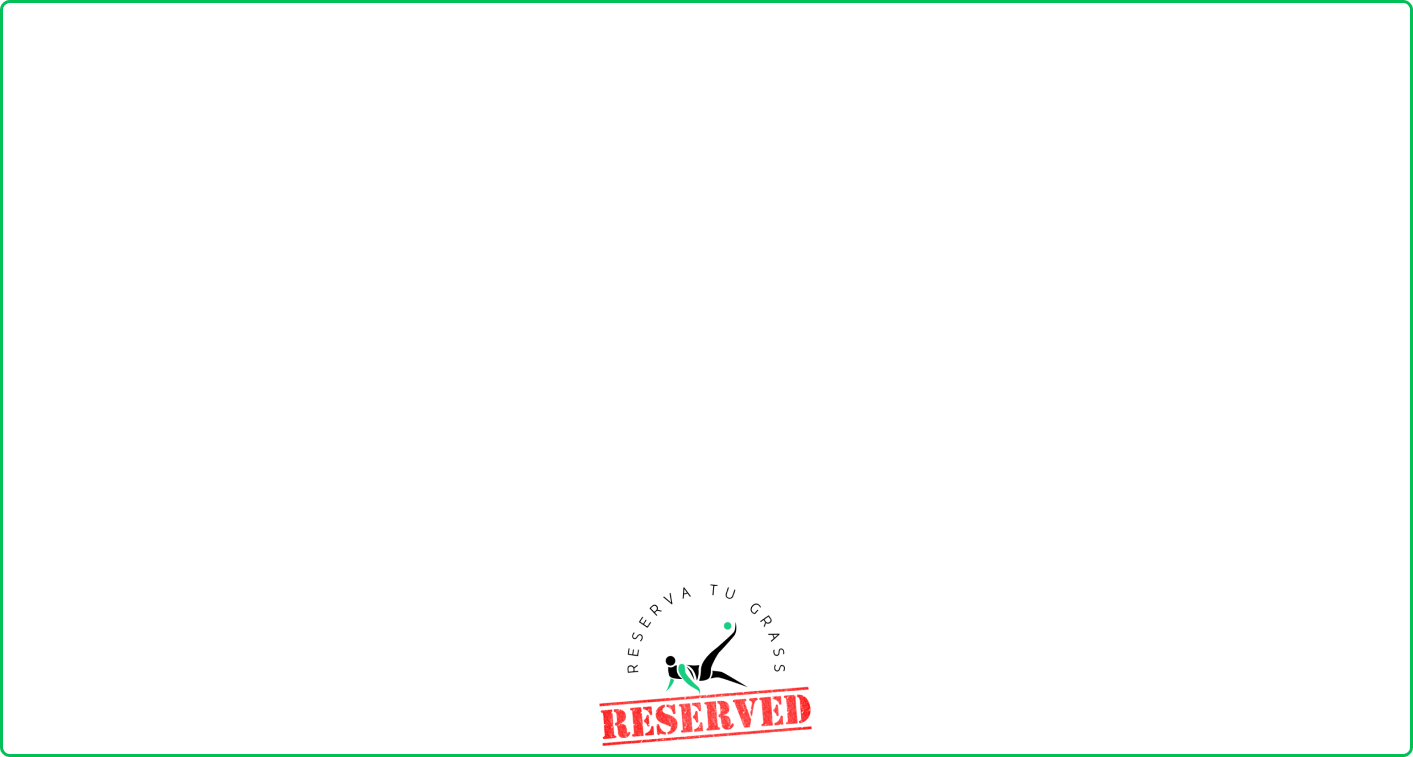
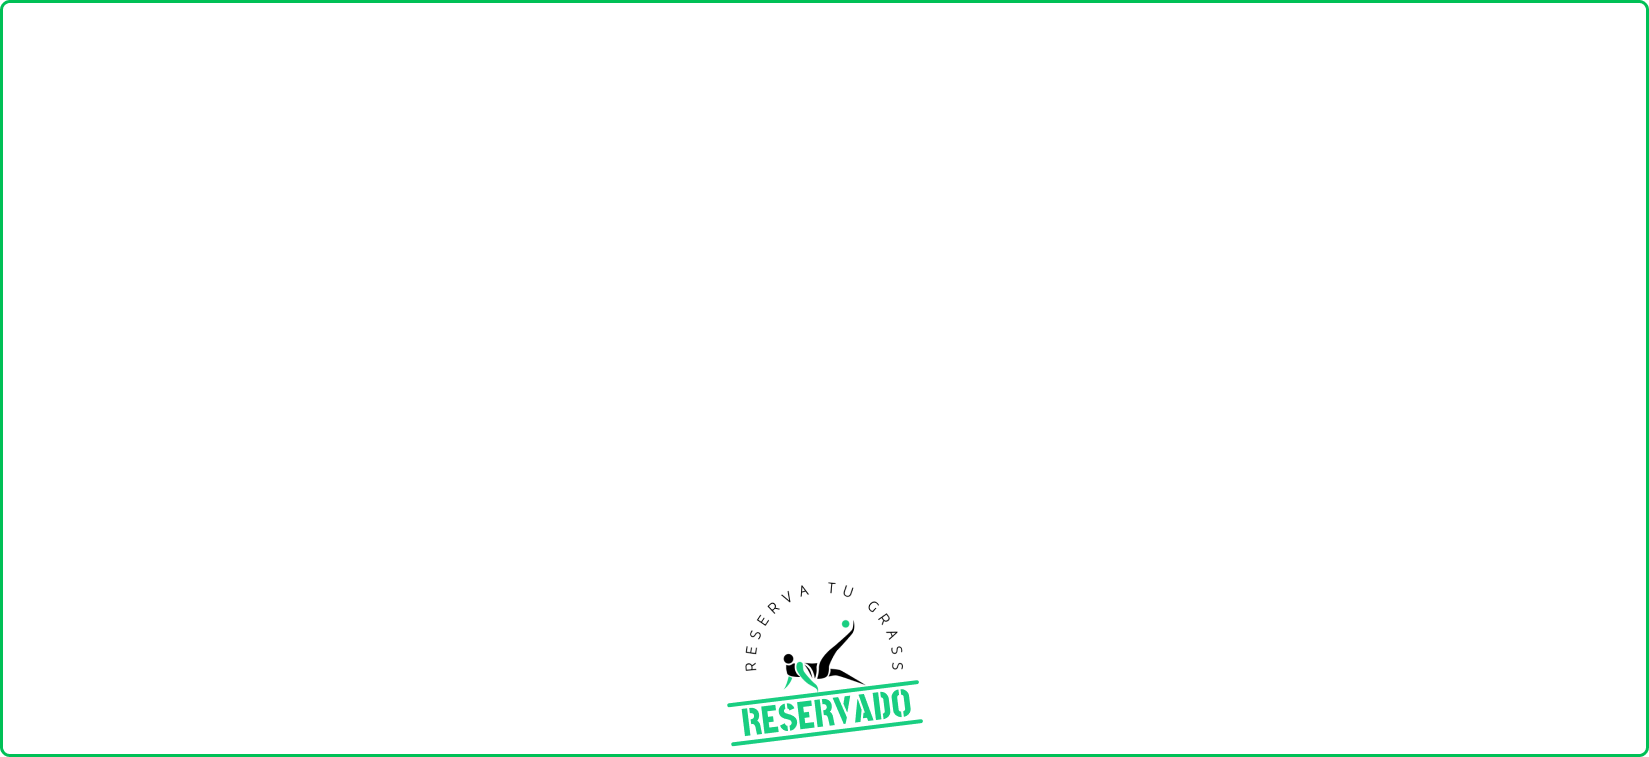
Genrar ticket modificado

Changed region(s): [[0.9965, 0.0, 1.0, 1.0], [0.4048, 0.79, 0.5916, 1.0], [0.4671, 0.7596, 0.5294, 0.79]]

diff --git a/Reserva-front/src/app/components/user/perfil/reservas/reservas.component.ts b/Reserva-front/src/app/components/user/perfil/reservas/reservas.component.ts
@@ -146,29 +146,19 @@ export class ReservasComponent implements OnInit {
     const container = document.getElementById(id);
   
     if (container) {
-      // Ruta a la imagen del marco en la carpeta assets
-      const marcoImagePath = '../../../../../assets/img/marco-ticket.png';
-  
-      // Cargar la imagen del marco
-      const marcoImg = new Image();
-      marcoImg.src = marcoImagePath;
-  
       // Capturar el contenido del contenedor
       html2canvas(container).then(contentCanvas => {
-        // Crear un nuevo canvas para combinar la imagen del marco y el contenido capturado
+        // Crear un nuevo canvas solo para el contenido capturado
         const combinedCanvas = document.createElement('canvas');
-        combinedCanvas.width = Math.max(contentCanvas.width, marcoImg.width);
-        combinedCanvas.height = Math.max(contentCanvas.height, marcoImg.height);
+        combinedCanvas.width = contentCanvas.width;
+        combinedCanvas.height = contentCanvas.height;
   
         const ctx = combinedCanvas.getContext('2d')!;
   
-        // Dibujar la imagen del marco
-        ctx.drawImage(marcoImg, 0, 0, marcoImg.width, marcoImg.height);
+        // Dibujar el contenido capturado
+        ctx.drawImage(contentCanvas, 0, 0);
   
-        // Dibujar el contenido capturado sobre el marco
-        ctx.drawImage(contentCanvas, 10, 10); // Ajusta las coordenadas según sea necesario
-  
-        // Obtener la imagen combinada como una URL
+        // Obtener la imagen capturada como una URL
         const combinedImage = combinedCanvas.toDataURL('image/png');
   
         // Crear un elemento a para la descarga
@@ -188,7 +178,6 @@ export class ReservasComponent implements OnInit {
       this.descargando = false;
     }
   }
-  
 
   eliminar_pre_reserva() {
     localStorage.removeItem('afuera');
